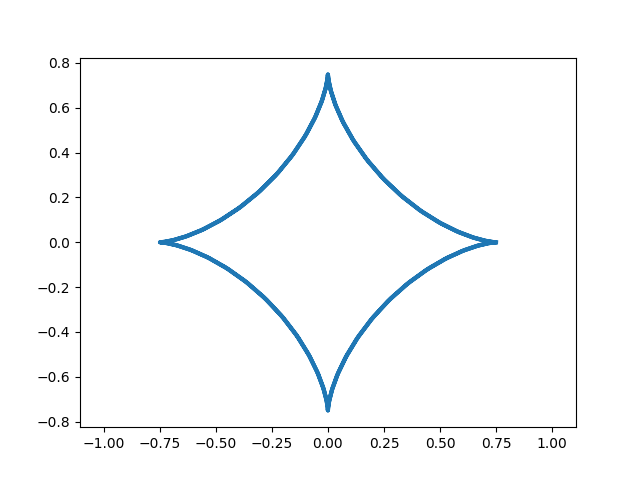
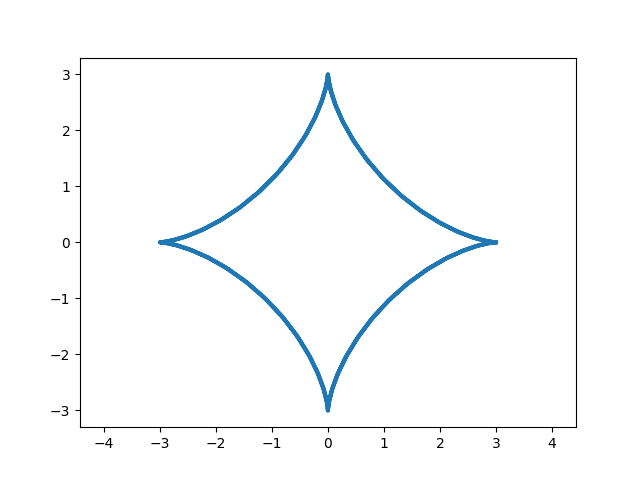
1

diff --git a/lab_6.py b/lab_6.py
@@ -3,20 +3,21 @@ import numpy as np
 from matplotlib.animation import FuncAnimation
 
 
-def circle(a, time):
-    alpha = np.arange(0, 2*np.pi, 0.1)
-    R = a * time
-    x = R*np.cos(alpha)
-    y = R*np.sin(alpha)
-    return x, y
+def star(alpha):
+    t = np.arange(0, 2*np.pi, 0.1)
+    x = 12*np.cos(t) + 8*np.cos(1.5*t)
+    y = 12*np.sin(t) + 8*np.sin(1.5*t)
 
+    X = (x*np.cos(alpha) - y*np.sin(alpha))
+    Y = (y*np.cos(alpha) + x*np.cos(alpha))
+    return X, Y
 
 fig, ax = plt.subplots()
 ball, = plt.plot([], [], '-', color='r', label='Ball')
 
 
-def animate(i):
-    ball.set_data(circle(a=0.03, time=i))
+def animate(alpha):
+    ball.set_data(star(alpha))
     return ball
 
 

diff --git a/lab_5.py b/lab_5.py
@@ -1,0 +1,28 @@
+import matplotlib.pyplot as plt
+import numpy as np
+from matplotlib.animation import FuncAnimation
+
+x = [0.1]
+y = [0.1]
+C = 0.3
+D = 0.33
+
+
+def animate(i):
+    x.append(x[i-1]**2 - y[i-1]**2 + C)
+    y.append(2 * x[i-1] * y[i-1] + D)
+
+    fractal.set_data(x, y)
+    return fractal
+
+
+fig, ax = plt.subplots()
+fractal, = plt.plot([], [], 'o', color='r')
+
+
+plt.axis('equal')
+ax.set_xlim(-1, 1)
+ax.set_ylim(-1, 1)
+
+ani = FuncAnimation(fig, animate, frames=100, interval=20)
+ani.save('animation_5.gif', writer="pillow")

diff --git a/lab_11.py b/lab_11.py
@@ -5,8 +5,8 @@ import numpy as np
 def astroid(R = 3):
     t = np.arange(-2*np.pi, 2*np.pi, 0.1)
 
-    x = R/4 * np.cos(t)**3
-    y = R/4* np.sin(t)**3
+    x = R * np.cos(t)**3
+    y = R * np.sin(t)**3
 
     plt.plot(x, y, ls = '-', lw = 3)
     plt.axis('equal')

diff --git a/lab_3.py b/lab_3.py
@@ -11,7 +11,7 @@ def butterfly(e=2.718):
 
 
 fig, ax = plt.subplots()
-ball, = plt.plot([], [], 'o', color='r', label='Ball')
+ball, = plt.plot([], [], '-', color='r', label='Ball')
 
 
 def animate(i):

diff --git a/lab_1.py b/lab_1.py
@@ -3,7 +3,7 @@ import numpy as np
 
 
 def cicloid(R = 3):
-    t = np.arange(0, 2*np.pi, 0.1)
+    t = np.arange(-2*np.pi, 2*np.pi, 0.1)
     x = R*(t - np.sin(t))
     y = R*(1 - np.cos(t))
 
